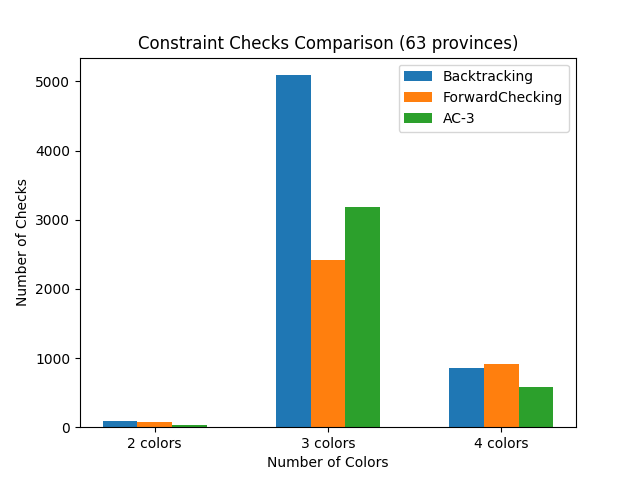
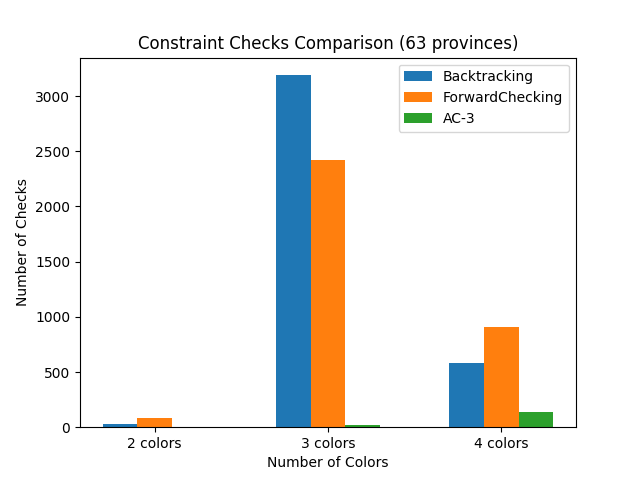
feat: implement backtracking and forward-checking solvers with performance experiment results

diff --git a/algorithms/backtracking.py b/algorithms/backtracking.py
@@ -10,8 +10,8 @@ class BacktrackingSolver:
     def is_consistent(self, csp, var: str, value: Any, assignment: Dict[str, Any]) -> bool:
         """Check consistency against assigned neighbors while counting checks."""
         for neighbor in csp.get_neighbors(var):
-            self.constraint_checks += 1
             if neighbor in assignment:
+                self.constraint_checks += 1
                 if not csp.constraint(var, value, neighbor, assignment[neighbor]):
                     return False
         return True

diff --git a/algorithms/forward_checking.py b/algorithms/forward_checking.py
@@ -63,6 +63,7 @@ class ForwardCheckingSolver:
             ok = True
             if mac:
                 # run AC-3 (MAC): initialize queue with arcs (Xk, var)
+                csp.domains[var] = [value]
                 queue = [(Xk, var) for Xk in csp.get_neighbors(var)]
                 ok = ac3(csp, queue=queue)
             else:
